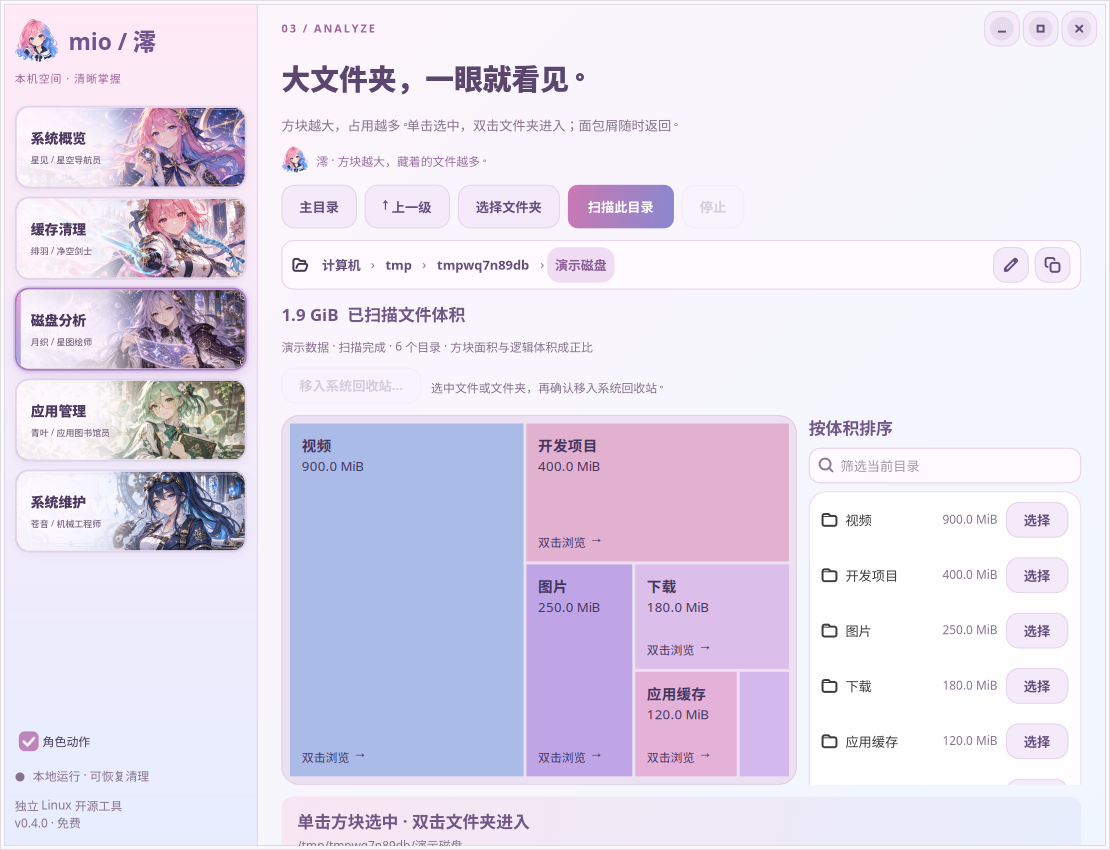
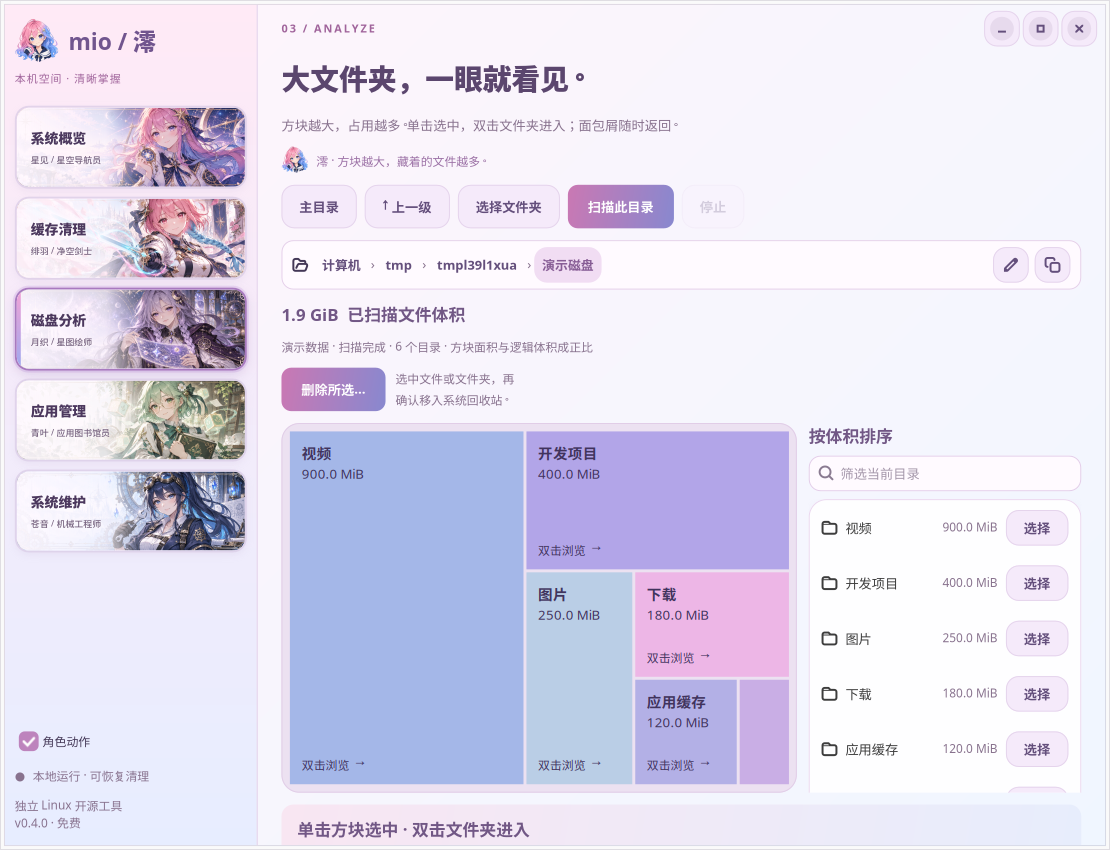
Make disk delete control prominent and explain unavailable actions

diff --git a/mio_linux/app.py b/mio_linux/app.py
@@ -386,8 +386,8 @@ class Window(OperationsUI, Adw.ApplicationWindow):
         page.append(self.disk_summary)
         page.append(self.disk_note)
         actions = box(False, 10)
-        self.disk_delete = button("移入系统回收站…", lambda _: self.review_disk_delete())
-        self.disk_delete.set_sensitive(False)
+        self.disk_delete = button("删除所选…", lambda _: self.review_disk_delete(), "suggested-action")
+        self.disk_delete.set_tooltip_text("删除所选文件或文件夹：确认后移入系统回收站，可恢复")
         actions.append(self.disk_delete)
         self.disk_action_note = label("选中文件或文件夹，再确认移入系统回收站。", "small muted", wrap=True)
         actions.append(self.disk_action_note)
@@ -465,7 +465,7 @@ class Window(OperationsUI, Adw.ApplicationWindow):
             self.jobs.discard("disk")
             if self.cancel.is_set():
                 return False
-            for control in (self.disk_button, self.parent_button, self.choose_button, self.home_button):
+            for control in (self.disk_button, self.parent_button, self.choose_button, self.home_button, self.disk_delete):
                 control.set_sensitive(True)
             self.stop_button.set_sensitive(False)
             self.disk_spinner.stop()
@@ -580,7 +580,7 @@ class Window(OperationsUI, Adw.ApplicationWindow):
         if self.disk_mutating or "disk" in self.jobs:
             return
         self.disk_selected = entry if any(entry is e for e in self.current_disk_scan.entries) else None
-        self.disk_delete.set_sensitive(self.disk_selected is not None and entry.complete and not self.current_disk_scan.partial)
+        self.disk_delete.set_sensitive(True)
         total = self.current_disk_scan.size
         percent = f"{entry.size / total:.1%}" if total else "0%"
         incomplete = " · 未完整扫描" if not entry.complete else ""
@@ -589,7 +589,7 @@ class Window(OperationsUI, Adw.ApplicationWindow):
 
     def show_disk(self, scan):
         self.disk_selected = None
-        self.disk_delete.set_sensitive(False)
+        self.disk_delete.set_sensitive(True)
         self.disk_path = scan.root
         self.current_disk_scan = scan
         self.disk_visible_limit = 100

diff --git a/tests/smoke_disk_delete.py b/tests/smoke_disk_delete.py
@@ -27,10 +27,23 @@ def tick():
         assert time.monotonic() < deadline, 'disk deletion GUI timeout'
         if phase == 0:
             w.navigate('disk')
+            assert w.disk_delete.get_label() == '删除所选…'
+            assert w.disk_delete.get_sensitive()
+            w.disk_delete.emit('clicked')
+            assert '扫描此目录' in w.disk_action_note.get_label()
+            assert not w.operation_busy
             w.start_disk(source)
             phase = 1
         elif phase == 1 and 'disk' in w.completed:
+            w.disk_delete.emit('clicked')
+            assert '请先单击' in w.disk_action_note.get_label()
+            assert not w.operation_busy
             w.treemap.select(w.current_disk_scan.entries[0])
+            w.current_disk_scan.partial = True
+            w.disk_delete.emit('clicked')
+            assert '部分扫描结果' in w.disk_action_note.get_label()
+            assert not w.operation_busy
+            w.current_disk_scan.partial = False
             w.disk_delete.emit('clicked')
             phase = 2
         elif phase == 2 and not w.operation_busy:
@@ -65,7 +78,8 @@ def tick():
         elif phase == 7 and not w.disk_mutating and 'disk' not in w.jobs:
             assert not w.current_disk_scan.entries
             assert not w.disk_nodes.get(folder)
-            assert not w.disk_delete.get_sensitive()
+            assert w.disk_delete.get_sensitive()
+            assert w.disk_selected is None
             ok = True
             app.quit()
             return False

diff --git a/mio_linux/operations_ui.py b/mio_linux/operations_ui.py
@@ -130,8 +130,14 @@ class OperationsUI:
             return
         entry = self.disk_selected
         scan = getattr(self, 'current_disk_scan', None)
-        if entry is None or scan is None or scan.partial or not entry.complete or not any(entry is e for e in scan.entries):
-            self.disk_action_note.set_label('请从完整扫描结果中选中一个文件或文件夹')
+        if scan is None:
+            self.disk_action_note.set_label('请先点击“扫描此目录”，再单击一个方块或列表中的“选择”')
+            return
+        if entry is None or not any(entry is e for e in scan.entries):
+            self.disk_action_note.set_label('请先单击要删除的方块，或点击右侧列表中的“选择”')
+            return
+        if scan.partial or not entry.complete:
+            self.disk_action_note.set_label('当前是部分扫描结果，不能删除。请进入较小目录，点击“扫描此目录”完成扫描后再选择。')
             return
         root, generation = scan.root, self.disk_generation
         self.disk_mutating = True
@@ -145,7 +151,7 @@ class OperationsUI:
 
         def unlock():
             self.disk_mutating = False
-            self.disk_delete.set_sensitive(self.disk_selected is not None)
+            self.disk_delete.set_sensitive(True)
 
         def ready(result):
             plan, error = result

diff --git a/docs/operations-design.md b/docs/operations-design.md
@@ -28,7 +28,7 @@ Mutation-family review: checked 2 (system trash handoff, legacy migration) / def
 
 ## Explicit disk-analyzer trash (0.4.x)
 
-Single-click selects a genuine scan entry; double-click or row activation enters a directory. The delete control above the map is disabled for partial scans, incomplete entries, and synthetic aggregate tiles. It never targets the scan root implicitly. Confirmation shows the exact path, file/folder type, checked item count and logical size. Directories are moved as a whole, including their contents.
+Single-click selects a genuine scan entry; double-click or row activation enters a directory. The always-visible “删除所选…” control above the map explains missing selection or incomplete scanning when clicked. Execution still refuses partial scans, incomplete entries, and synthetic aggregate tiles; the control is disabled during scanning or mutation. It never targets the scan root implicitly. Confirmation shows the exact path, file/folder type, checked item count and logical size. Directories are moved as a whole, including their contents.
 
 `disk_operations.py` builds an immutable descriptor-based snapshot bounded to 20,000 entries, depth 128 and 30 seconds per validation pass. It rejects home/ancestor/system root containers, the system trash tree, symlinks, special files, hard-linked regular files, different owners, device boundaries, unreadable items and live/unknown open-handle probes. Confirmation execution repeats this validation, compares every descendant signature and parent identity, then rebinds the parent and target immediately before GIO trash. A fresh plan is required after any change. There is no permanent-delete fallback and no privilege escalation. The GIO call has the existing 30-second cancellable budget; cancellation before the sink refuses mutation.
 

diff --git a/README.md b/README.md
@@ -36,7 +36,7 @@ python3 -m mio_linux.desktop
 
 启动脚本使用系统 `/usr/bin/python3`，无需 pip、Node.js、API 密钥或网络服务。根目录原有的 `mo`、`mole` 和 `install.sh` 属于上游 macOS CLI，不能作为 Mio 的 Linux 安装入口。
 
-磁盘分析支持选中具体文件或文件夹，点击“移入系统回收站…”核对完整路径后执行；成功时角色对准所选方块挥刀，随后重新扫描当前目录。失败不播放成功动画。目录检查受 30 秒 / 20,000 项限制，包含链接、特殊文件、其他所有者或跨文件系统时拒绝移动。
+磁盘分析支持选中具体文件或文件夹，点击图表上方的“删除所选…”核对完整路径后移入系统回收站；成功时角色对准所选方块挥刀，随后重新扫描当前目录。失败不播放成功动画。目录检查受 30 秒 / 20,000 项限制，包含链接、特殊文件、其他所有者或跨文件系统时拒绝移动。
 
 ## 角色界面与动作
 
